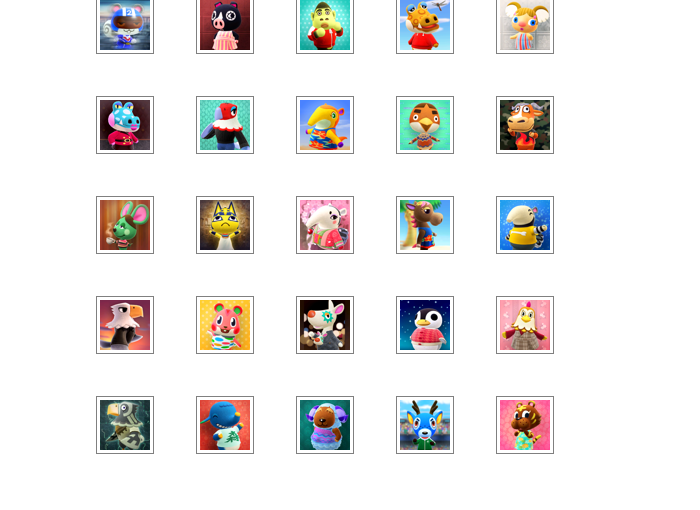
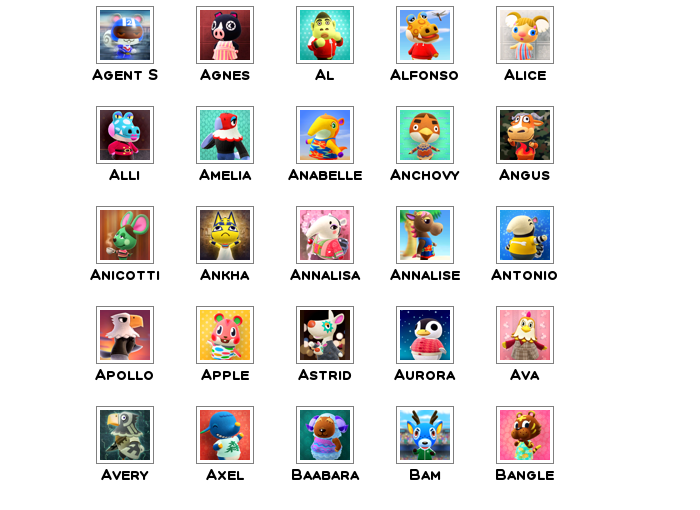
assets

diff --git a/feur.py b/feur.py
@@ -19,6 +19,13 @@ compteur_id_perso = 1
 draw_perso = 0
 i=0
 
+
+b = Image.open("assets/background.png")
+b=b.convert("RGBA")
+
+b=b.resize((1200,560))
+b.save("assets/background1.png")
+
 def compile_image(liste_image):
     background_image = Image.open("background_image.png")
     background_image = background_image.convert("RGBA")
@@ -29,13 +36,13 @@ def compile_image(liste_image):
 
         imagelist[i] = imagelist[i].convert("RGBA")
         imagelist[i] = imagelist[i].resize((50,50))
-    y=0
+    y=10
     compteur_id_perso=0
     contour = Image.open("images/contour.png")
     for i in range(1,6):
         y+=100
         if i == 1:
-            y = 0
+            y = 10
         x=100
         for j in range(1,6):
             background_image.alpha_composite(imagelist[compteur_id_perso],dest=(x,y))
@@ -43,13 +50,13 @@ def compile_image(liste_image):
             compteur_id_perso+=1
             x +=100
     background_image2 = ImageDraw.Draw(background_image)
-    y=-50
+    y=-35
     compteur_id_perso=0
     for i in range(1,6):
         y+=100
         x=125
         for j in range(1,6):
-            background_image2.text((x,y),liste_image[compteur_id_perso].nom_perso,(255,255,255),font=font,anchor="ma")
+            background_image2.text((x,y),liste_image[compteur_id_perso].nom_perso,(0,0,0),font=font,anchor="ma")
             compteur_id_perso+=1
             x +=100
     background_image.save("yes.png")
@@ -57,7 +64,7 @@ def compile_image(liste_image):
 def compile_image_perso(perso_name,list_arg):
     perso = Image.open("images/perso_vierge.png")
     perso = perso.convert("RGBA")
-    if len(liste_image) == 0:
+    if len(list_arg) == 0:
         cheveux = randint(1,10)
         visage = randint(1,10)
         yeux = randint(1,10)
@@ -68,22 +75,30 @@ def compile_image_perso(perso_name,list_arg):
         barbe = randint(1,10)
         background = randint(1,10)
     else:
-        cheveux = Image.open("assets/cheveux/"+str(list_arg[0]))
-        visage = Image.open("assets/visage/"+str(list_arg[1]))
-        yeux = Image.open("assets/yeux/"+str(list_arg[2]))
-        nez = Image.open("assets/nez/"+str(list_arg[3]))
-        bouche = Image.open("assets/bouche/"+str(list_arg[4]))
-        cosmetique = Image.open("assets/cosmetique/"+str(list_arg[5]))
-        moustache = Image.open("assets/moustache/"+str(list_arg[6]))
-        barbe = Image.open("assets/barbe/"+str(list_arg[7]))
-        background = Image.open("assets/background/"+str(list_arg[8]))
+        cheveux = Image.open("assets/cheveux/cheveux"+str(list_arg[0])+".png")
+        visage = Image.open("assets/visage/visage"+str(list_arg[1])+".png")
+        yeux = Image.open("assets/yeux/yeux"+str(list_arg[2])+".png")
+        nez = Image.open("assets/nez/nez"+str(list_arg[3])+".png")
+        bouche = Image.open("assets/bouche/bouche"+str(list_arg[4])+".png")
+        cosmetique = Image.open("assets/cosmetique/cosmetique"+str(list_arg[5])+".png")
+        #moustache = Image.open("assets/moustache/moustache"+str(list_arg[6])+".png")
+        #barbe = Image.open("assets/barbe/barbe"+str(list_arg[7])+".png")
+        background = Image.open("assets/background/background"+str(list_arg[8])+".png")
+    perso.alpha_composite(background)
+    perso.alpha_composite(visage)
+    perso.alpha_composite(yeux)
+    perso.alpha_composite(nez)
+    perso.alpha_composite(bouche)
+    #perso.alpha_composite(moustache)
+    #perso.alpha_composite(barbe)
+    perso.alpha_composite(cheveux)
+    perso.alpha_composite(cosmetique)
+    perso.save("assets/perso_fin/"+str(perso_name)+".png")
 
 
 
 
-
-
-
+compile_image_perso("Roger",[1,1,1,1,1,1,1,1,1])
 
 
 class image_personnage():
@@ -126,8 +141,12 @@ class image_personnage():
                     clear()
         return 1
 
-
-
+class Bouton():
+    def __init__(self,x,y,taille,nom):
+        self.x = x
+        self.y = y
+        self.taille = taille
+        self.nom = nom
 
 for i in range(1,6):
     y+=100
@@ -147,44 +166,63 @@ def setup():
     title("Qui c'est moi ?")
 i = 0
 souris_dessus = False
-
+ecran = "jeu"
+e = False
 def draw():
-    global draw_perso,i,compteur_id_perso
-    if draw_perso ==0 and image_perso_liste[i].affiche == False:
-        draw_perso =1
-        background(0,0,0)
-        image(load_image("yes.png"),225,50)
-    if draw_perso == 1:
-        for image_perso in image_perso_liste:
-            i +=1
-            if image_perso.souris_dessus == True and i==24:
-                souris_dessus == True
-            else:
-                souris_dessus == False
-        for image_perso in image_perso_liste:
-            draw_perso = image_perso.clic()
-            if image_perso.choisi == True:
-                draw_perso =2
-                for image_perso in image_perso_liste:
-                    image_perso.affiche = False
-                    i = 0
-                    background(0,0,0)
-                break
-    if draw_perso == 2 and image_perso_liste[i].affiche == False:
-        for i in range(25):
-            image_perso_liste[i].x -=275
-            image_perso_liste[i].affiche = True
-            if image_perso_liste[i].choisi == True:
-                fill(30,30,30)
-                rect(550,0,5,650)
-                for ligne in range(120,650,40):
-                    rect(550,ligne,650,3)
-                image_perso_liste[i].x = 610
-                image_perso_liste[i].y =25
-                image_perso_liste[i].affiche = False
-                image_perso_liste[i].afficher()
+    global draw_perso,i,compteur_id_perso,ecran,e
+    if ecran == "jeu":
+        if draw_perso ==0 and image_perso_liste[i].affiche == False:
+            draw_perso =1
+            image(load_image("assets/background1.png"),0,0)
+            #background(0,0,0)
+            image(load_image("yes.png"),259,50)
+        if draw_perso == 1:
+            for image_perso in image_perso_liste:
+                i +=1
+                if image_perso.souris_dessus == True and i==24:
+                    souris_dessus == True
+                else:
+                    souris_dessus == False
+            for image_perso in image_perso_liste:
+                draw_perso = image_perso.clic()
+                if image_perso.choisi == True:
+                    draw_perso =2
+                    for image_perso in image_perso_liste:
+                        image_perso.affiche = False
+                        i = 0
+                        background(0,0,0)
+                    break
+        if draw_perso == 2 and image_perso_liste[i].affiche == False:
+            e = False
+            for i in range(25):
+                image_perso_liste[i].x -=275
                 image_perso_liste[i].affiche = True
-                image(load_image("yes.png"),-50,50)
+                if image_perso_liste[i].choisi == True:
+                    fill(30,30,30)
+                    rect(550,0,5,650)
+                    for ligne in range(120,650,40):
+                        rect(550,ligne,650,3)
+                    image_perso_liste[i].x = 610
+                    image_perso_liste[i].y =25
+                    image_perso_liste[i].affiche = False
+                    image_perso_liste[i].afficher()
+                    image_perso_liste[i].affiche = True
+                    image(load_image("yes.png"),-50,50)
+                    e = True
+            if e == True:
+                draw_perso = 4
+        if draw_perso == 4 and e == True:
+            a = input("C'est quoi ton truc")
+            draw_perso = 3
+            print(a)
+        if draw_perso == 3 and e == True:
+            b = input("> ")
+            if b == "":
+                draw_perso = 4
+    #elif ecran == "depart":
+
+    #elif ecran == "personalisation":
+
 
     noStroke()
 

diff --git a/so.py b/so.py
@@ -1,0 +1,14 @@
+from socket import *
+
+def extract_ip():
+    st = socket(socket.AF_INET, socket.SOCK_DGRAM)
+    try:       
+        st.connect(('10.255.255.255', 1))
+        IP = st.getsockname()[0]
+    except Exception:
+        IP = '127.0.0.1'
+    finally:
+        st.close()
+    return IP
+    
+print(extract_ip())
